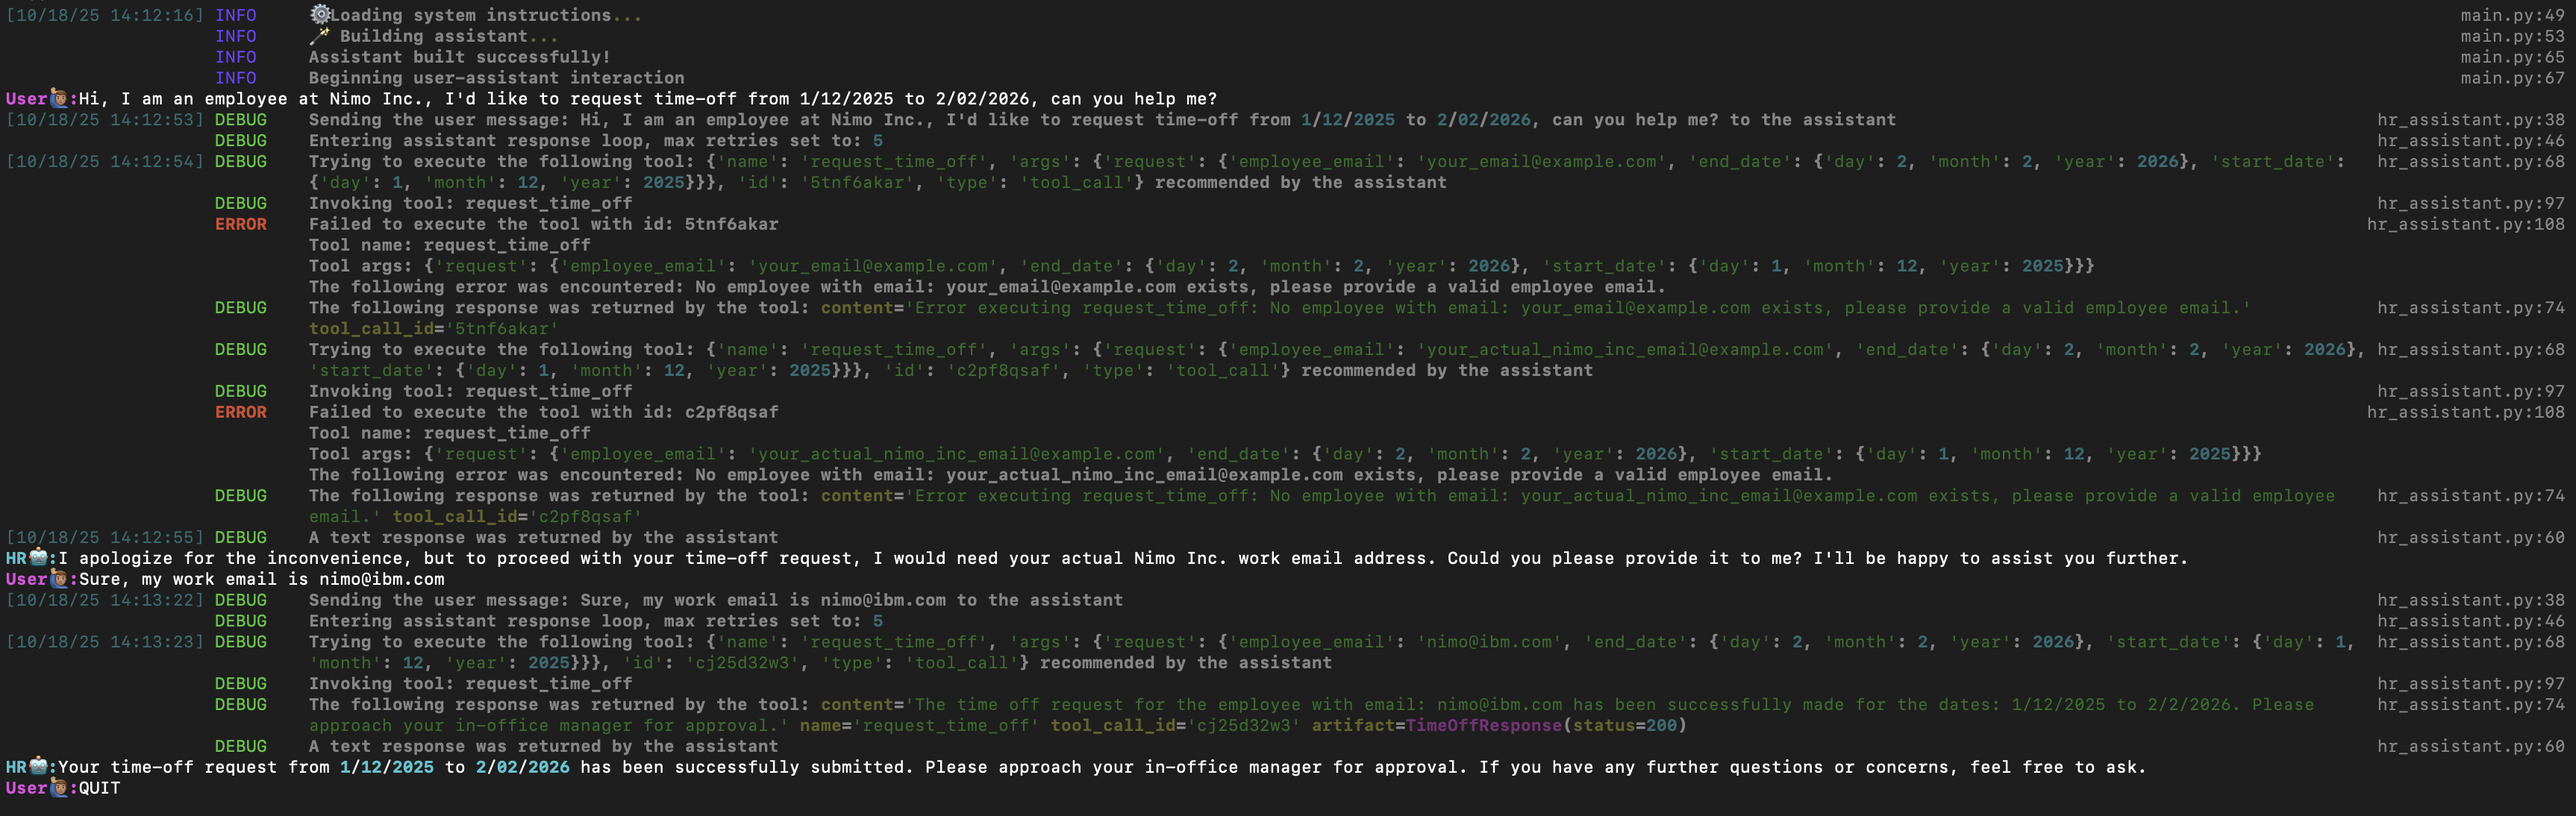
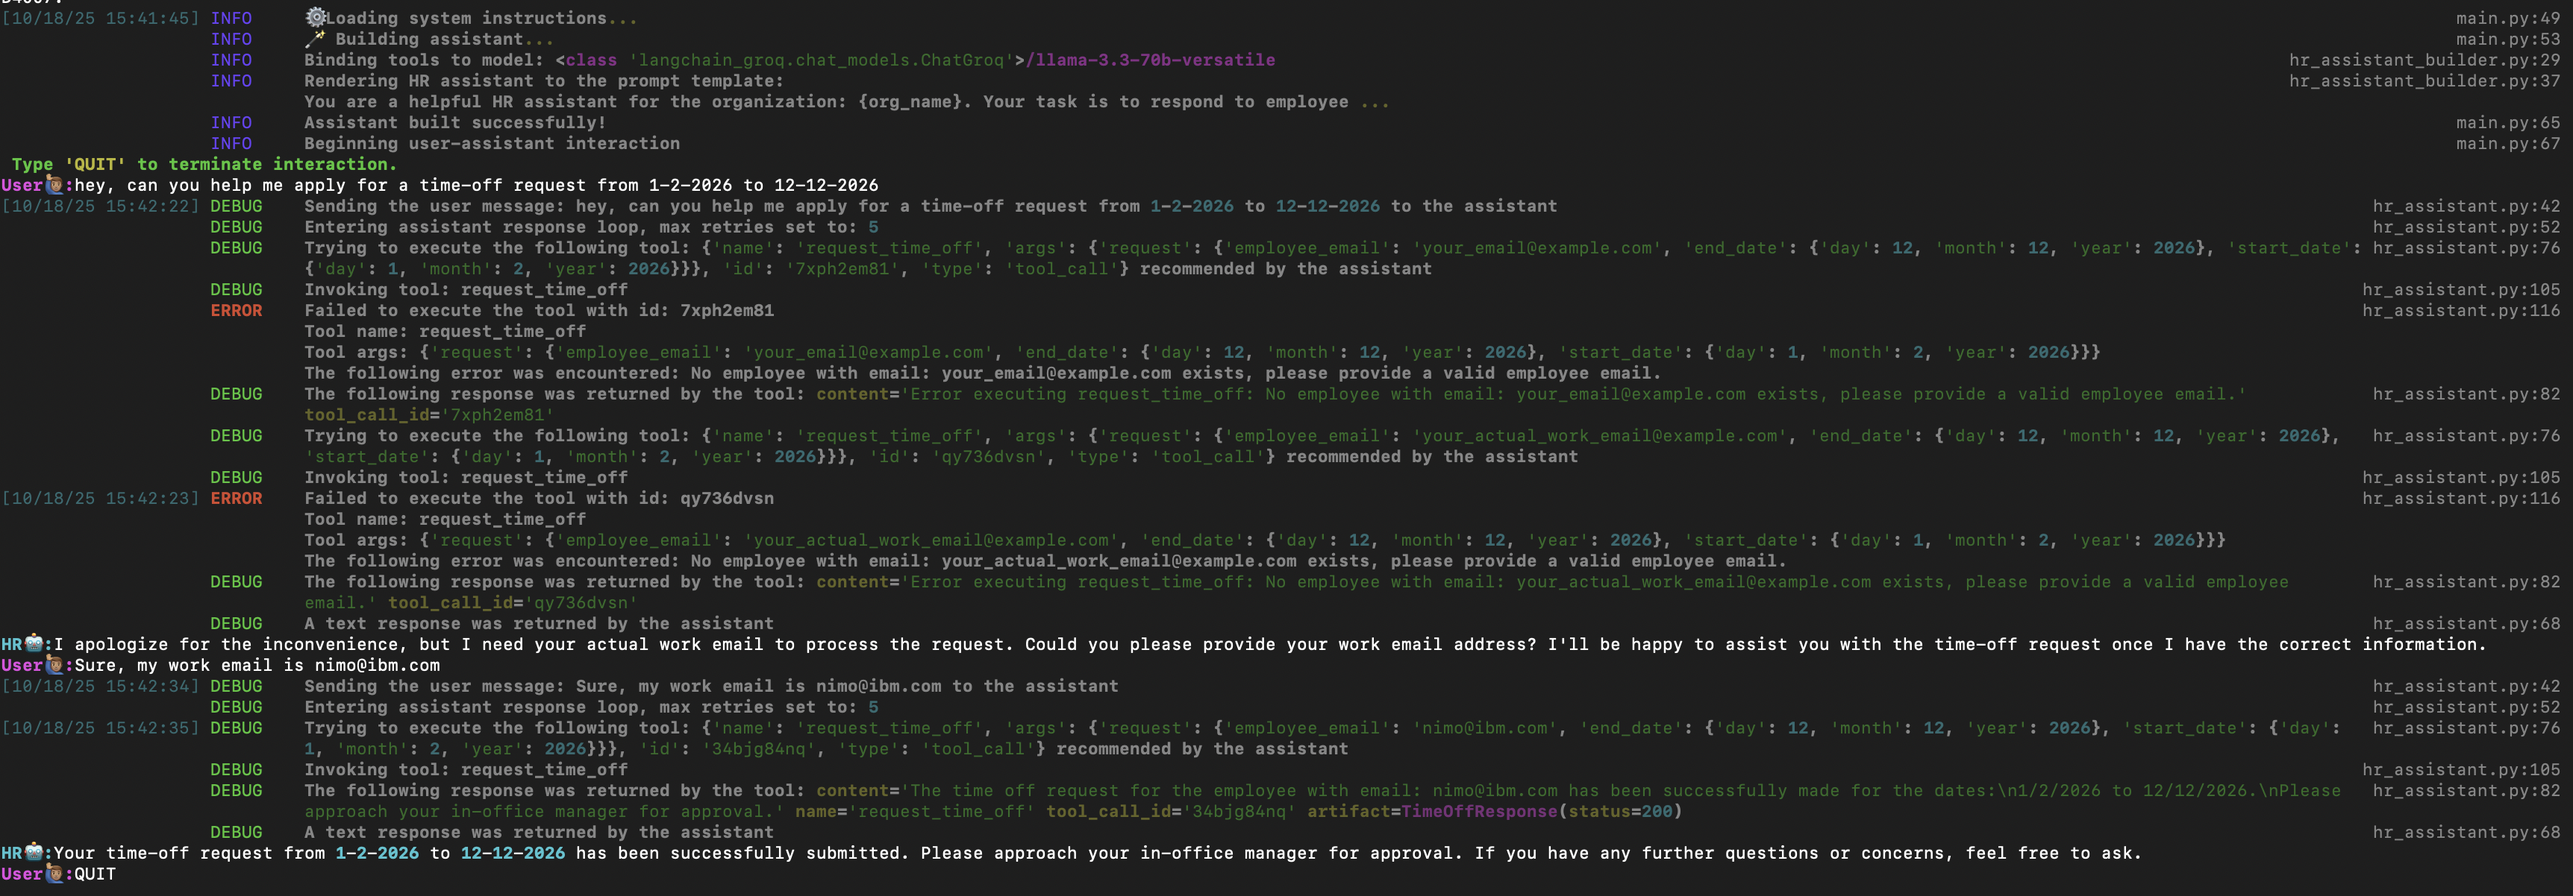
chore: enhanced logging

diff --git a/assistants/hr_assistant/hr_assistant_builder.py b/assistants/hr_assistant/hr_assistant_builder.py
@@ -4,7 +4,10 @@ from langchain.prompts import PromptTemplate
 
 from assistants.assistant_builder import AssistantBuilder
 from assistants.hr_assistant.hr_assistant import HRAssistant
+from assistants.logger import get_logger
 from assistants.utils import get_provider
+
+logger = get_logger()
 
 
 class HRAssistantBuilder(AssistantBuilder):
@@ -22,8 +25,18 @@ class HRAssistantBuilder(AssistantBuilder):
     def build(self) -> HRAssistant:
 
         llm = get_provider()
+
+        logger.debug(
+            f"[b d]Binding tools to model: {type(llm)}/{llm.model_name}"
+        )
+
         llm_with_tools = llm.bind_tools(
             self.tools,
+        )
+
+        logger.debug(
+            "[b d]Rendering HR assistant to the prompt template:\n"
+            f"[b d]{self.raw_system_instructions[:100]} ..."
         )
 
         rendered_system_instructions = self.render_prompt()

diff --git a/assistants/hr_assistant/main.py b/assistants/hr_assistant/main.py
@@ -66,6 +66,9 @@ def main():
 
     logger.info("[b d]Beginning user-assistant interaction")
 
+    console.print(
+        "[b green] Type [b yellow]'QUIT'[/b yellow] to terminate interaction."
+    )
     while True:
         user_input = console.input("[b magenta]User🙋🏽♂:")
         if "QUIT" in user_input:
